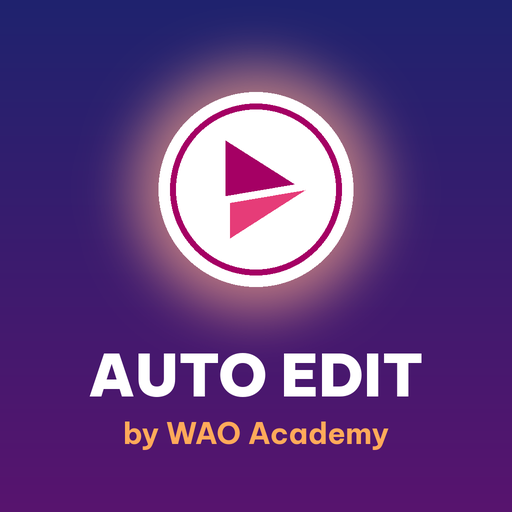
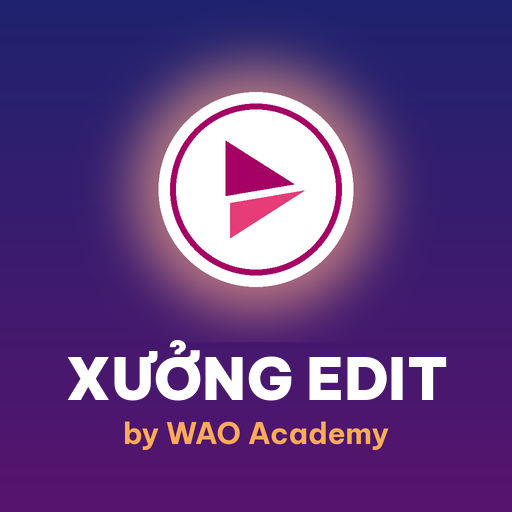
Bản 2.4: đổi tên app thành Xưởng Edit
Claude-Session: https://claude.ai/code/session_01EKngzQQ7Mwa95Ct36P8Sa3

Changed region(s): [[0.125, 0.6562, 0.875, 0.7812]]

diff --git a/index.html b/index.html
@@ -1,5 +1,5 @@
 <!doctype html><html lang="vi"><head><meta charset="utf-8"><meta name="viewport" content="width=device-width,initial-scale=1,viewport-fit=cover"><link rel="manifest" href="manifest.json"><meta name="theme-color" content="#2F8F5B"><link rel="icon" href="icon.png"><link rel="apple-touch-icon" href="icon.png"><meta name="apple-mobile-web-app-capable" content="yes"><meta name="mobile-web-app-capable" content="yes"></head><body>
-<title>Auto edit video</title>
+<title>Xưởng Edit</title>
 <style>
 @font-face{font-family:"Be Vietnam Pro";src:url(fonts/BeVietnamPro-Black.ttf) format("truetype");font-weight:900;font-display:swap}@font-face{font-family:"Be Vietnam Pro";src:url(fonts/BeVietnamPro-Bold.ttf) format("truetype");font-weight:700;font-display:swap}@font-face{font-family:"Be Vietnam Pro";src:url(fonts/BeVietnamPro-SemiBold.ttf) format("truetype");font-weight:600;font-display:swap}@font-face{font-family:"Be Vietnam Pro";src:url(fonts/BeVietnamPro-Medium.ttf) format("truetype");font-weight:500;font-display:swap}@font-face{font-family:"Montserrat";src:url(fonts/Montserrat-VF.ttf) format("truetype");font-weight:100 900;font-display:swap}@font-face{font-family:"Playfair Display";src:url(fonts/PlayfairDisplay-Italic-VF.ttf) format("truetype");font-weight:400 900;font-style:italic;font-display:swap}@font-face{font-family:"Lexend";src:url(fonts/lexend-vietnamese-700-normal.woff2) format("woff2");font-weight:700;font-display:swap;unicode-range:U+0102-0103,U+0110-0111,U+0128-0129,U+0168-0169,U+01A0-01A1,U+01AF-01B0,U+0300-0301,U+0303-0304,U+0308-0309,U+0323,U+0329,U+1EA0-1EF9,U+20AB}@font-face{font-family:"Lexend";src:url(fonts/lexend-latin-ext-700-normal.woff2) format("woff2");font-weight:700;font-display:swap;unicode-range:U+0100-02BA,U+02BD-02C5,U+02C7-02CC,U+02CE-02D7,U+02DD-02FF,U+0304,U+0308,U+0329,U+1D00-1DBF,U+1E00-1E9F,U+1EF2-1EFF,U+2020,U+20A0-20AB,U+20AD-20C0,U+2113,U+2C60-2C7F,U+A720-A7FF}@font-face{font-family:"Lexend";src:url(fonts/lexend-latin-700-normal.woff2) format("woff2");font-weight:700;font-display:swap;unicode-range:U+0000-00FF,U+0131,U+0152-0153,U+02BB-02BC,U+02C6,U+02DA,U+02DC,U+0304,U+0308,U+0329,U+2000-206F,U+20AC,U+2122,U+2191,U+2193,U+2212,U+2215,U+FEFF,U+FFFD}@font-face{font-family:"Nunito";src:url(fonts/nunito-vietnamese-800-normal.woff2) format("woff2");font-weight:800;font-display:swap;unicode-range:U+0102-0103,U+0110-0111,U+0128-0129,U+0168-0169,U+01A0-01A1,U+01AF-01B0,U+0300-0301,U+0303-0304,U+0308-0309,U+0323,U+0329,U+1EA0-1EF9,U+20AB}@font-face{font-family:"Nunito";src:url(fonts/nunito-latin-ext-800-normal.woff2) format("woff2");font-weight:800;font-display:swap;unicode-range:U+0100-02BA,U+02BD-02C5,U+02C7-02CC,U+02CE-02D7,U+02DD-02FF,U+0304,U+0308,U+0329,U+1D00-1DBF,U+1E00-1E9F,U+1EF2-1EFF,U+2020,U+20A0-20AB,U+20AD-20C0,U+2113,U+2C60-2C7F,U+A720-A7FF}@font-face{font-family:"Nunito";src:url(fonts/nunito-latin-800-normal.woff2) format("woff2");font-weight:800;font-display:swap;unicode-range:U+0000-00FF,U+0131,U+0152-0153,U+02BB-02BC,U+02C6,U+02DA,U+02DC,U+0304,U+0308,U+0329,U+2000-206F,U+20AC,U+2122,U+2191,U+2193,U+2212,U+2215,U+FEFF,U+FFFD}@font-face{font-family:"Quicksand";src:url(fonts/quicksand-vietnamese-700-normal.woff2) format("woff2");font-weight:700;font-display:swap;unicode-range:U+0102-0103,U+0110-0111,U+0128-0129,U+0168-0169,U+01A0-01A1,U+01AF-01B0,U+0300-0301,U+0303-0304,U+0308-0309,U+0323,U+0329,U+1EA0-1EF9,U+20AB}@font-face{font-family:"Quicksand";src:url(fonts/quicksand-latin-ext-700-normal.woff2) format("woff2");font-weight:700;font-display:swap;unicode-range:U+0100-02BA,U+02BD-02C5,U+02C7-02CC,U+02CE-02D7,U+02DD-02FF,U+0304,U+0308,U+0329,U+1D00-1DBF,U+1E00-1E9F,U+1EF2-1EFF,U+2020,U+20A0-20AB,U+20AD-20C0,U+2113,U+2C60-2C7F,U+A720-A7FF}@font-face{font-family:"Quicksand";src:url(fonts/quicksand-latin-700-normal.woff2) format("woff2");font-weight:700;font-display:swap;unicode-range:U+0000-00FF,U+0131,U+0152-0153,U+02BB-02BC,U+02C6,U+02DA,U+02DC,U+0304,U+0308,U+0329,U+2000-206F,U+20AC,U+2122,U+2191,U+2193,U+2212,U+2215,U+FEFF,U+FFFD}@font-face{font-family:"Baloo 2";src:url(fonts/baloo-2-vietnamese-700-normal.woff2) format("woff2");font-weight:700;font-display:swap;unicode-range:U+0102-0103,U+0110-0111,U+0128-0129,U+0168-0169,U+01A0-01A1,U+01AF-01B0,U+0300-0301,U+0303-0304,U+0308-0309,U+0323,U+0329,U+1EA0-1EF9,U+20AB}@font-face{font-family:"Baloo 2";src:url(fonts/baloo-2-latin-ext-700-normal.woff2) format("woff2");font-weight:700;font-display:swap;unicode-range:U+0100-02BA,U+02BD-02C5,U+02C7-02CC,U+02CE-02D7,U+02DD-02FF,U+0304,U+0308,U+0329,U+1D00-1DBF,U+1E00-1E9F,U+1EF2-1EFF,U+2020,U+20A0-20AB,U+20AD-20C0,U+2113,U+2C60-2C7F,U+A720-A7FF}@font-face{font-family:"Baloo 2";src:url(fonts/baloo-2-latin-700-normal.woff2) format("woff2");font-weight:700;font-display:swap;unicode-range:U+0000-00FF,U+0131,U+0152-0153,U+02BB-02BC,U+02C6,U+02DA,U+02DC,U+0304,U+0308,U+0329,U+2000-206F,U+20AC,U+2122,U+2191,U+2193,U+2212,U+2215,U+FEFF,U+FFFD}@font-face{font-family:"Dancing Script";src:url(fonts/dancing-script-vietnamese-700-normal.woff2) format("woff2");font-weight:700;font-display:swap;unicode-range:U+0102-0103,U+0110-0111,U+0128-0129,U+0168-0169,U+01A0-01A1,U+01AF-01B0,U+0300-0301,U+0303-0304,U+0308-0309,U+0323,U+0329,U+1EA0-1EF9,U+20AB}@font-face{font-family:"Dancing Script";src:url(fonts/dancing-script-latin-ext-700-normal.woff2) format("woff2");font-weight:700;font-display:swap;unicode-range:U+0100-02BA,U+02BD-02C5,U+02C7-02CC,U+02CE-02D7,U+02DD-02FF,U+0304,U+0308,U+0329,U+1D00-1DBF,U+1E00-1E9F,U+1EF2-1EFF,U+2020,U+20A0-20AB,U+20AD-20C0,U+2113,U+2C60-2C7F,U+A720-A7FF}@font-face{font-family:"Dancing Script";src:url(fonts/dancing-script-latin-700-normal.woff2) format("woff2");font-weight:700;font-display:swap;unicode-range:U+0000-00FF,U+0131,U+0152-0153,U+02BB-02BC,U+02C6,U+02DA,U+02DC,U+0304,U+0308,U+0329,U+2000-206F,U+20AC,U+2122,U+2191,U+2193,U+2212,U+2215,U+FEFF,U+FFFD}@font-face{font-family:"Charm";src:url(fonts/charm-vietnamese-700-normal.woff2) format("woff2");font-weight:700;font-display:swap;unicode-range:U+0102-0103,U+0110-0111,U+0128-0129,U+0168-0169,U+01A0-01A1,U+01AF-01B0,U+0300-0301,U+0303-0304,U+0308-0309,U+0323,U+0329,U+1EA0-1EF9,U+20AB}@font-face{font-family:"Charm";src:url(fonts/charm-latin-ext-700-normal.woff2) format("woff2");font-weight:700;font-display:swap;unicode-range:U+0100-02BA,U+02BD-02C5,U+02C7-02CC,U+02CE-02D7,U+02DD-02FF,U+0304,U+0308,U+0329,U+1D00-1DBF,U+1E00-1E9F,U+1EF2-1EFF,U+2020,U+20A0-20AB,U+20AD-20C0,U+2113,U+2C60-2C7F,U+A720-A7FF}@font-face{font-family:"Charm";src:url(fonts/charm-latin-700-normal.woff2) format("woff2");font-weight:700;font-display:swap;unicode-range:U+0000-00FF,U+0131,U+0152-0153,U+02BB-02BC,U+02C6,U+02DA,U+02DC,U+0304,U+0308,U+0329,U+2000-206F,U+20AC,U+2122,U+2191,U+2193,U+2212,U+2215,U+FEFF,U+FFFD}@font-face{font-family:"Patrick Hand";src:url(fonts/patrick-hand-vietnamese-400-normal.woff2) format("woff2");font-weight:400;font-display:swap;unicode-range:U+0102-0103,U+0110-0111,U+0128-0129,U+0168-0169,U+01A0-01A1,U+01AF-01B0,U+0300-0301,U+0303-0304,U+0308-0309,U+0323,U+0329,U+1EA0-1EF9,U+20AB}@font-face{font-family:"Patrick Hand";src:url(fonts/patrick-hand-latin-ext-400-normal.woff2) format("woff2");font-weight:400;font-display:swap;unicode-range:U+0100-02BA,U+02BD-02C5,U+02C7-02CC,U+02CE-02D7,U+02DD-02FF,U+0304,U+0308,U+0329,U+1D00-1DBF,U+1E00-1E9F,U+1EF2-1EFF,U+2020,U+20A0-20AB,U+20AD-20C0,U+2113,U+2C60-2C7F,U+A720-A7FF}@font-face{font-family:"Patrick Hand";src:url(fonts/patrick-hand-latin-400-normal.woff2) format("woff2");font-weight:400;font-display:swap;unicode-range:U+0000-00FF,U+0131,U+0152-0153,U+02BB-02BC,U+02C6,U+02DA,U+02DC,U+0304,U+0308,U+0329,U+2000-206F,U+20AC,U+2122,U+2191,U+2193,U+2212,U+2215,U+FEFF,U+FFFD}@font-face{font-family:"Itim";src:url(fonts/itim-vietnamese-400-normal.woff2) format("woff2");font-weight:400;font-display:swap;unicode-range:U+0102-0103,U+0110-0111,U+0128-0129,U+0168-0169,U+01A0-01A1,U+01AF-01B0,U+0300-0301,U+0303-0304,U+0308-0309,U+0323,U+0329,U+1EA0-1EF9,U+20AB}@font-face{font-family:"Itim";src:url(fonts/itim-latin-ext-400-normal.woff2) format("woff2");font-weight:400;font-display:swap;unicode-range:U+0100-02BA,U+02BD-02C5,U+02C7-02CC,U+02CE-02D7,U+02DD-02FF,U+0304,U+0308,U+0329,U+1D00-1DBF,U+1E00-1E9F,U+1EF2-1EFF,U+2020,U+20A0-20AB,U+20AD-20C0,U+2113,U+2C60-2C7F,U+A720-A7FF}@font-face{font-family:"Itim";src:url(fonts/itim-latin-400-normal.woff2) format("woff2");font-weight:400;font-display:swap;unicode-range:U+0000-00FF,U+0131,U+0152-0153,U+02BB-02BC,U+02C6,U+02DA,U+02DC,U+0304,U+0308,U+0329,U+2000-206F,U+20AC,U+2122,U+2191,U+2193,U+2212,U+2215,U+FEFF,U+FFFD}@font-face{font-family:"Pacifico";src:url(fonts/pacifico-vietnamese-400-normal.woff2) format("woff2");font-weight:400;font-display:swap;unicode-range:U+0102-0103,U+0110-0111,U+0128-0129,U+0168-0169,U+01A0-01A1,U+01AF-01B0,U+0300-0301,U+0303-0304,U+0308-0309,U+0323,U+0329,U+1EA0-1EF9,U+20AB}@font-face{font-family:"Pacifico";src:url(fonts/pacifico-latin-ext-400-normal.woff2) format("woff2");font-weight:400;font-display:swap;unicode-range:U+0100-02BA,U+02BD-02C5,U+02C7-02CC,U+02CE-02D7,U+02DD-02FF,U+0304,U+0308,U+0329,U+1D00-1DBF,U+1E00-1E9F,U+1EF2-1EFF,U+2020,U+20A0-20AB,U+20AD-20C0,U+2113,U+2C60-2C7F,U+A720-A7FF}@font-face{font-family:"Pacifico";src:url(fonts/pacifico-latin-400-normal.woff2) format("woff2");font-weight:400;font-display:swap;unicode-range:U+0000-00FF,U+0131,U+0152-0153,U+02BB-02BC,U+02C6,U+02DA,U+02DC,U+0304,U+0308,U+0329,U+2000-206F,U+20AC,U+2122,U+2191,U+2193,U+2212,U+2215,U+FEFF,U+FFFD}@font-face{font-family:"Lobster";src:url(fonts/lobster-vietnamese-400-normal.woff2) format("woff2");font-weight:400;font-display:swap;unicode-range:U+0102-0103,U+0110-0111,U+0128-0129,U+0168-0169,U+01A0-01A1,U+01AF-01B0,U+0300-0301,U+0303-0304,U+0308-0309,U+0323,U+0329,U+1EA0-1EF9,U+20AB}@font-face{font-family:"Lobster";src:url(fonts/lobster-latin-ext-400-normal.woff2) format("woff2");font-weight:400;font-display:swap;unicode-range:U+0100-02BA,U+02BD-02C5,U+02C7-02CC,U+02CE-02D7,U+02DD-02FF,U+0304,U+0308,U+0329,U+1D00-1DBF,U+1E00-1E9F,U+1EF2-1EFF,U+2020,U+20A0-20AB,U+20AD-20C0,U+2113,U+2C60-2C7F,U+A720-A7FF}@font-face{font-family:"Lobster";src:url(fonts/lobster-latin-400-normal.woff2) format("woff2");font-weight:400;font-display:swap;unicode-range:U+0000-00FF,U+0131,U+0152-0153,U+02BB-02BC,U+02C6,U+02DA,U+02DC,U+0304,U+0308,U+0329,U+2000-206F,U+20AC,U+2122,U+2191,U+2193,U+2212,U+2215,U+FEFF,U+FFFD}@font-face{font-family:"Comfortaa";src:url(fonts/comfortaa-vietnamese-700-normal.woff2) format("woff2");font-weight:700;font-display:swap;unicode-range:U+0102-0103,U+0110-0111,U+0128-0129,U+0168-0169,U+01A0-01A1,U+01AF-01B0,U+0300-0301,U+0303-0304,U+0308-0309,U+0323,U+0329,U+1EA0-1EF9,U+20AB}@font-face{font-family:"Comfortaa";src:url(fonts/comfortaa-latin-ext-700-normal.woff2) format("woff2");font-weight:700;font-display:swap;unicode-range:U+0100-02BA,U+02BD-02C5,U+02C7-02CC,U+02CE-02D7,U+02DD-02FF,U+0304,U+0308,U+0329,U+1D00-1DBF,U+1E00-1E9F,U+1EF2-1EFF,U+2020,U+20A0-20AB,U+20AD-20C0,U+2113,U+2C60-2C7F,U+A720-A7FF}@font-face{font-family:"Comfortaa";src:url(fonts/comfortaa-latin-700-normal.woff2) format("woff2");font-weight:700;font-display:swap;unicode-range:U+0000-00FF,U+0131,U+0152-0153,U+02BB-02BC,U+02C6,U+02DA,U+02DC,U+0304,U+0308,U+0329,U+2000-206F,U+20AC,U+2122,U+2191,U+2193,U+2212,U+2215,U+FEFF,U+FFFD}
 :root{
@@ -242,7 +242,7 @@ details summary{cursor:pointer;font:700 14px var(--display);color:var(--muted)}
 <div class="wrap">
   <header>
     <img class="logo-mark" src="icon.png" alt="" aria-hidden="true">
-    <div><h1>Auto edit video</h1><p>Cắt khoảng lặng, cắt ậm ờ, gắn phụ đề, làm giọng. Chạy ngay trên điện thoại, không cần máy tính.</p><span class="ver">Phiên bản 2.3</span></div>
+    <div><h1>Xưởng Edit</h1><p>Cắt khoảng lặng, cắt ậm ờ, gắn phụ đề, làm giọng. Chạy ngay trên điện thoại, không cần máy tính.</p><span class="ver">Phiên bản 2.4</span></div>
   </header>
 
   <section class="card">

diff --git a/sw.js b/sw.js
@@ -1,5 +1,5 @@
 // Lưu sẵn mọi file để mở không cần mạng; thêm 2 dòng đầu cô lập (COOP/COEP) để trình duyệt cho chạy nhiều luồng.
-const V = "autoedit-f8034a50d1", FILES = ["./fonts/BeVietnamPro-Black.ttf", "./fonts/BeVietnamPro-Bold.ttf", "./fonts/BeVietnamPro-Medium.ttf", "./fonts/BeVietnamPro-SemiBold.ttf", "./fonts/Montserrat-VF.ttf", "./fonts/PlayfairDisplay-Italic-VF.ttf", "./fonts/baloo-2-latin-700-normal.woff2", "./fonts/baloo-2-latin-ext-700-normal.woff2", "./fonts/baloo-2-vietnamese-700-normal.woff2", "./fonts/charm-latin-700-normal.woff2", "./fonts/charm-latin-ext-700-normal.woff2", "./fonts/charm-vietnamese-700-normal.woff2", "./fonts/comfortaa-latin-700-normal.woff2", "./fonts/comfortaa-latin-ext-700-normal.woff2", "./fonts/comfortaa-vietnamese-700-normal.woff2", "./fonts/dancing-script-latin-700-normal.woff2", "./fonts/dancing-script-latin-ext-700-normal.woff2", "./fonts/dancing-script-vietnamese-700-normal.woff2", "./fonts/itim-latin-400-normal.woff2", "./fonts/itim-latin-ext-400-normal.woff2", "./fonts/itim-vietnamese-400-normal.woff2", "./fonts/lexend-latin-700-normal.woff2", "./fonts/lexend-latin-ext-700-normal.woff2", "./fonts/lexend-vietnamese-700-normal.woff2", "./fonts/lobster-latin-400-normal.woff2", "./fonts/lobster-latin-ext-400-normal.woff2", "./fonts/lobster-vietnamese-400-normal.woff2", "./fonts/nunito-latin-800-normal.woff2", "./fonts/nunito-latin-ext-800-normal.woff2", "./fonts/nunito-vietnamese-800-normal.woff2", "./fonts/pacifico-latin-400-normal.woff2", "./fonts/pacifico-latin-ext-400-normal.woff2", "./fonts/pacifico-vietnamese-400-normal.woff2", "./fonts/patrick-hand-latin-400-normal.woff2", "./fonts/patrick-hand-latin-ext-400-normal.woff2", "./fonts/patrick-hand-vietnamese-400-normal.woff2", "./fonts/quicksand-latin-700-normal.woff2", "./fonts/quicksand-latin-ext-700-normal.woff2", "./fonts/quicksand-vietnamese-700-normal.woff2", "./icon.png", "./index.html", "./lib/mp4-muxer.js", "./lib/ort-wasm-simd-threaded.mjs", "./lib/ort-wasm-simd-threaded.wasm", "./lib/ort.wasm.min.mjs", "./lib/rnnoise.mjs", "./manifest.json", "./mo_hinh/cfg.json", "./mo_hinh/voc.json", "./nghe_1_enc_00.bin", "./nghe_1_enc_01.bin", "./nghe_1_enc_02.bin", "./nghe_1_enc_03.bin", "./nghe_2_enc_04.bin", "./nghe_2_enc_05.bin", "./nghe_2_enc_06.bin", "./nghe_2_enc_07.bin", "./nghe_3_enc_08.bin", "./nghe_3_enc_09.bin", "./nghe_3_enc_10.bin", "./nghe_3_enc_11.bin", "./nghe_4_dec_00.bin", "./nghe_4_dec_01.bin", "./nghe_4_dec_02.bin", "./nghe_4_dec_03.bin", "./nghe_5_dec_04.bin", "./nghe_5_dec_05.bin", "./nghe_5_dec_06.bin", "./nghe_5_dec_07.bin", "./nghe_6_dec_08.bin", "./nghe_6_dec_09.bin", "./nghe_6_dec_10.bin", "./nghe_6_dec_11.bin", "./nghe_7_dec_12.bin", "./nghe_7_dec_13.bin", "./nghe_7_dec_14.bin", "./nhac/1A.mp3", "./nhac/1B.mp3", "./nhac/1C.mp3", "./nhac/2A.mp3", "./nhac/2B.mp3", "./nhac/2C.mp3", "./nhac/3A.mp3", "./nhac/3B.mp3", "./nhac/3C.mp3", "./nhac/4A.mp3", "./nhac/4B.mp3", "./nhac/4C.mp3", "./nhac/5A.mp3", "./nhac/5B.mp3", "./nhac/5C.mp3", "./nhac/6A.mp3", "./nhac/6B.mp3", "./nhac/6C.mp3"];
+const V = "autoedit-e35582e99a", FILES = ["./fonts/BeVietnamPro-Black.ttf", "./fonts/BeVietnamPro-Bold.ttf", "./fonts/BeVietnamPro-Medium.ttf", "./fonts/BeVietnamPro-SemiBold.ttf", "./fonts/Montserrat-VF.ttf", "./fonts/PlayfairDisplay-Italic-VF.ttf", "./fonts/baloo-2-latin-700-normal.woff2", "./fonts/baloo-2-latin-ext-700-normal.woff2", "./fonts/baloo-2-vietnamese-700-normal.woff2", "./fonts/charm-latin-700-normal.woff2", "./fonts/charm-latin-ext-700-normal.woff2", "./fonts/charm-vietnamese-700-normal.woff2", "./fonts/comfortaa-latin-700-normal.woff2", "./fonts/comfortaa-latin-ext-700-normal.woff2", "./fonts/comfortaa-vietnamese-700-normal.woff2", "./fonts/dancing-script-latin-700-normal.woff2", "./fonts/dancing-script-latin-ext-700-normal.woff2", "./fonts/dancing-script-vietnamese-700-normal.woff2", "./fonts/itim-latin-400-normal.woff2", "./fonts/itim-latin-ext-400-normal.woff2", "./fonts/itim-vietnamese-400-normal.woff2", "./fonts/lexend-latin-700-normal.woff2", "./fonts/lexend-latin-ext-700-normal.woff2", "./fonts/lexend-vietnamese-700-normal.woff2", "./fonts/lobster-latin-400-normal.woff2", "./fonts/lobster-latin-ext-400-normal.woff2", "./fonts/lobster-vietnamese-400-normal.woff2", "./fonts/nunito-latin-800-normal.woff2", "./fonts/nunito-latin-ext-800-normal.woff2", "./fonts/nunito-vietnamese-800-normal.woff2", "./fonts/pacifico-latin-400-normal.woff2", "./fonts/pacifico-latin-ext-400-normal.woff2", "./fonts/pacifico-vietnamese-400-normal.woff2", "./fonts/patrick-hand-latin-400-normal.woff2", "./fonts/patrick-hand-latin-ext-400-normal.woff2", "./fonts/patrick-hand-vietnamese-400-normal.woff2", "./fonts/quicksand-latin-700-normal.woff2", "./fonts/quicksand-latin-ext-700-normal.woff2", "./fonts/quicksand-vietnamese-700-normal.woff2", "./icon.png", "./index.html", "./lib/mp4-muxer.js", "./lib/ort-wasm-simd-threaded.mjs", "./lib/ort-wasm-simd-threaded.wasm", "./lib/ort.wasm.min.mjs", "./lib/rnnoise.mjs", "./manifest.json", "./mo_hinh/cfg.json", "./mo_hinh/voc.json", "./nghe_1_enc_00.bin", "./nghe_1_enc_01.bin", "./nghe_1_enc_02.bin", "./nghe_1_enc_03.bin", "./nghe_2_enc_04.bin", "./nghe_2_enc_05.bin", "./nghe_2_enc_06.bin", "./nghe_2_enc_07.bin", "./nghe_3_enc_08.bin", "./nghe_3_enc_09.bin", "./nghe_3_enc_10.bin", "./nghe_3_enc_11.bin", "./nghe_4_dec_00.bin", "./nghe_4_dec_01.bin", "./nghe_4_dec_02.bin", "./nghe_4_dec_03.bin", "./nghe_5_dec_04.bin", "./nghe_5_dec_05.bin", "./nghe_5_dec_06.bin", "./nghe_5_dec_07.bin", "./nghe_6_dec_08.bin", "./nghe_6_dec_09.bin", "./nghe_6_dec_10.bin", "./nghe_6_dec_11.bin", "./nghe_7_dec_12.bin", "./nghe_7_dec_13.bin", "./nghe_7_dec_14.bin", "./nhac/1A.mp3", "./nhac/1B.mp3", "./nhac/1C.mp3", "./nhac/2A.mp3", "./nhac/2B.mp3", "./nhac/2C.mp3", "./nhac/3A.mp3", "./nhac/3B.mp3", "./nhac/3C.mp3", "./nhac/4A.mp3", "./nhac/4B.mp3", "./nhac/4C.mp3", "./nhac/5A.mp3", "./nhac/5B.mp3", "./nhac/5C.mp3", "./nhac/6A.mp3", "./nhac/6B.mp3", "./nhac/6C.mp3"];
 const iso = r => {
   if (!r || r.type === "opaque" || r.status === 0) return r;
   const h = new Headers(r.headers);
